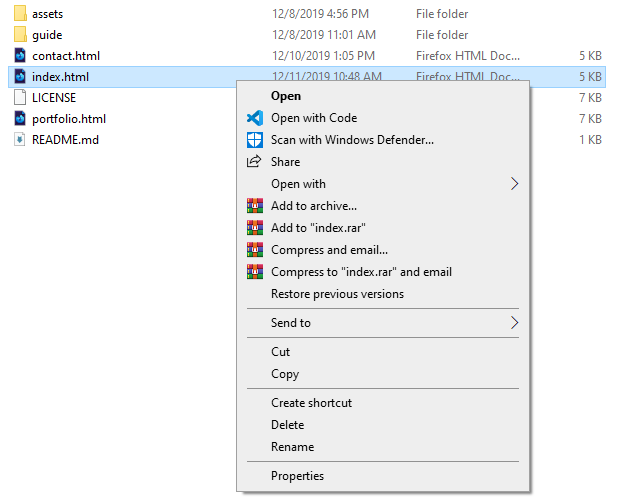
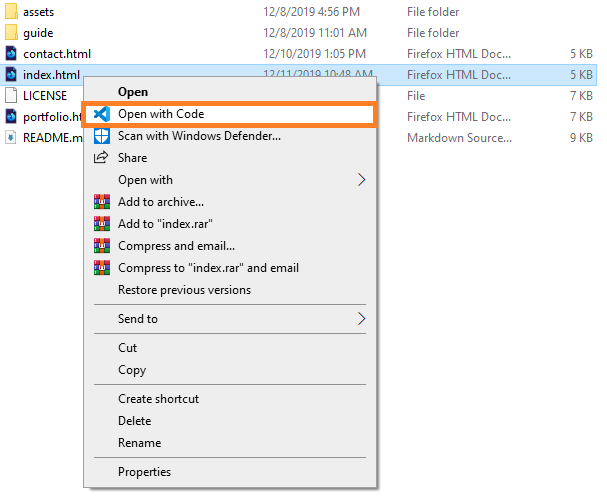
finished writing readme

diff --git a/README.md b/README.md
@@ -22,10 +22,17 @@ Download this repository (portfolio-bootstrap). Locate this repository in your l
 
 ## Usage
 
+Navigate to this repository locally. The three pages of the project are inside the root directory. Right click on one of the html files and choose open with code, or select the open with menu and choose your preferred editor.
+
 ![How to edit](assets/images/readme-images/open-with-code.png)
 
+The files can also be viewed in the web browser by choosing to open with your preferred web browser. The CSS files can be found in assets/css. 
 
 ## Credits
+
+Visual Studio Code https://code.visualstudio.com/
+
+I would like to thank my teachers and classmates at the Georgia Tech Coding Bootcamp for their help and support.
 
 
 ## License
